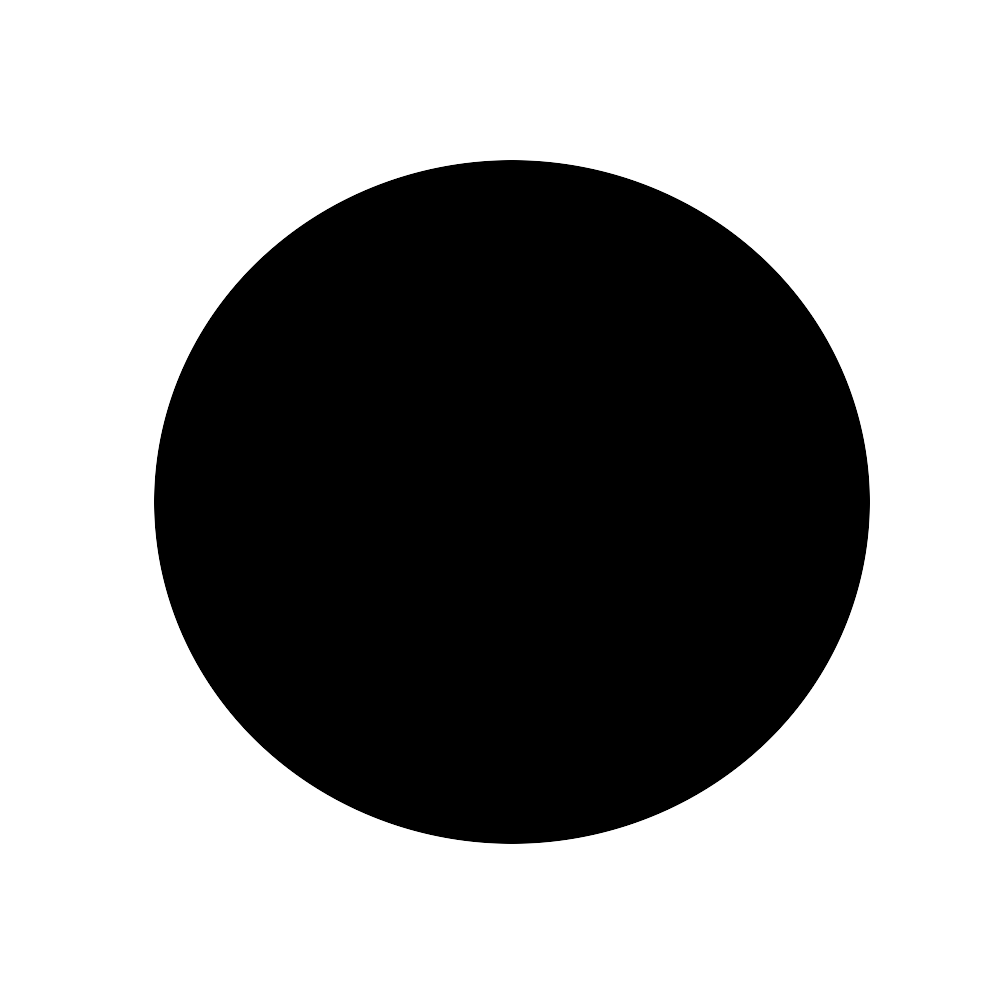
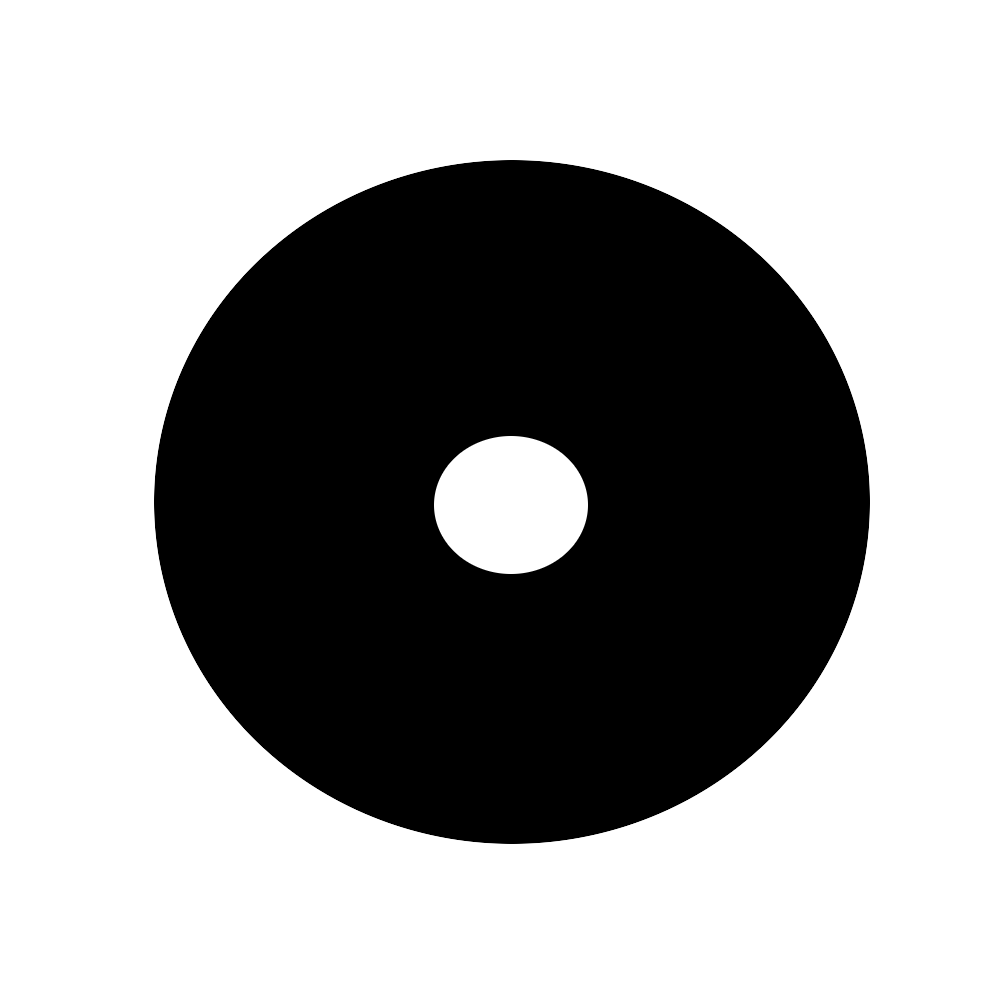
added sample output

Changed region(s): [[0.434, 0.434, 0.589, 0.589]]

diff --git a/custom_wordcloud/custom_wordcloud.py b/custom_wordcloud/custom_wordcloud.py
@@ -37,7 +37,7 @@ def custom_wordcloud(tempFileName, emphDictionary, maskFile, inputFile="", color
 	wordcloud = WordCloud(max_words=100, mask=mask, margin=10, random_state=3).generate(text)
 	plt.imshow(wordcloud.recolor(color_func=blue_color),interpolation="bilinear")
 	plt.axis("off")
-	plt.show()
+	plt.savefig(path.join(dir,"custom_wordcloud_output.png"),format="png")
  
-#wordList = {"Python" : 50, "Physics" : 6, "Data-analysis" : 25, "Creative" : 20, "Research" : 15, "Programming" : 8}
-#custom_wordcloud("test.txt", wordList, maskFile="star.png", inputFile="qualitywords.txt")
+wordList = {"Python" : 50, "Physics" : 6, "Data-analysis" : 25, "Creative" : 20, "Research" : 15, "Programming" : 8}
+custom_wordcloud("test.txt", wordList, maskFile="ball.png", inputFile="qualitywords.txt")
